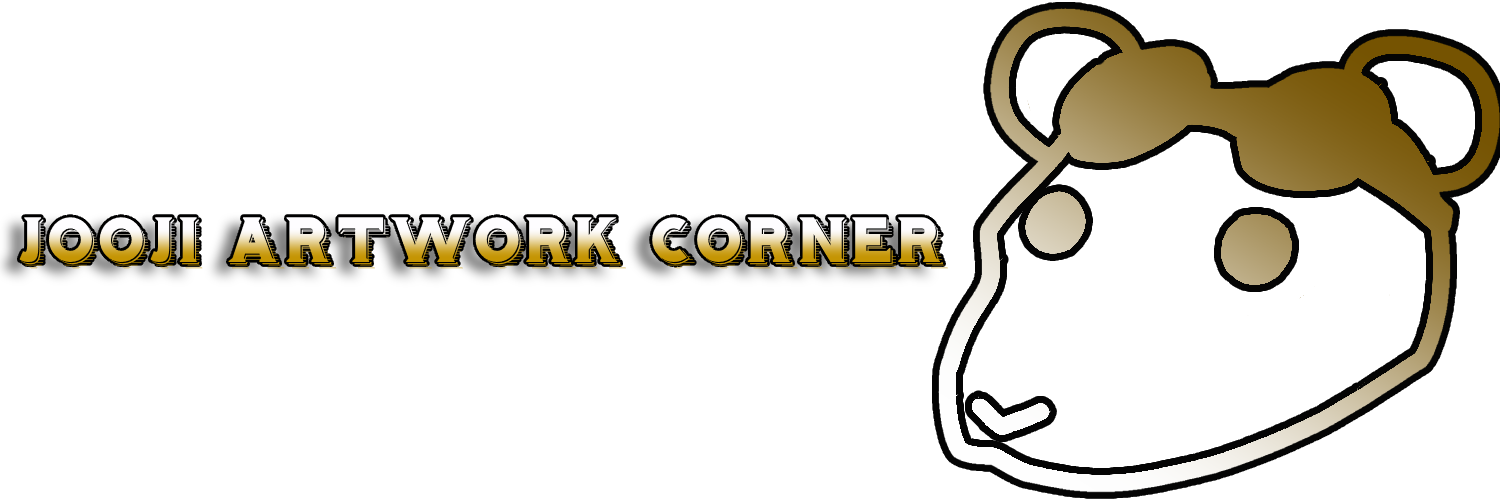
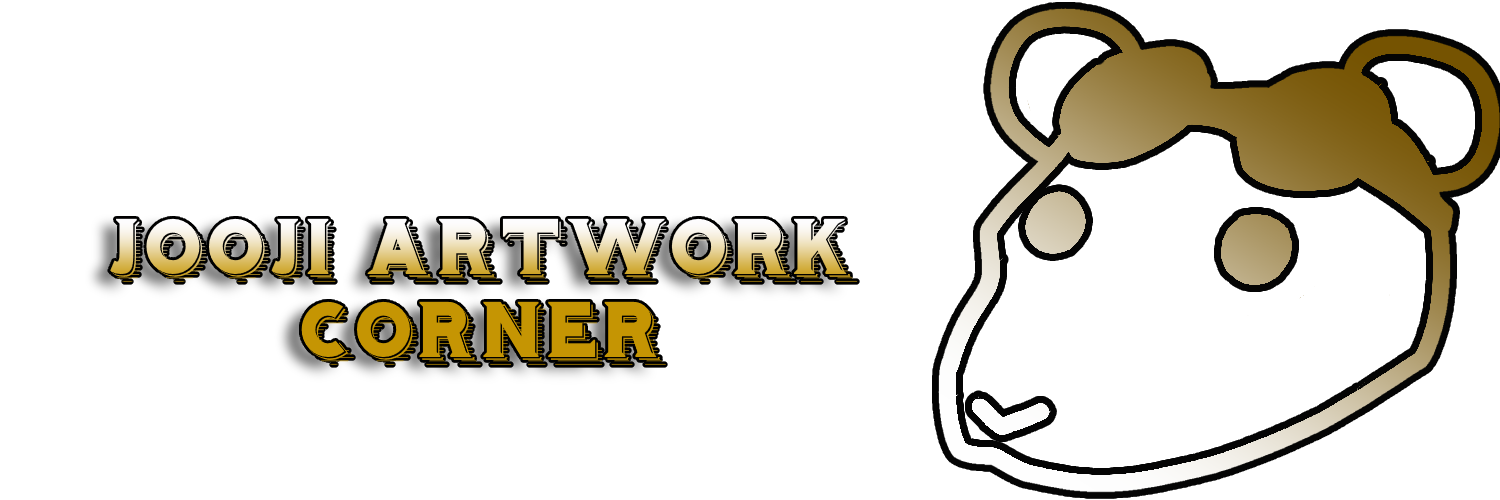
updating

Changed region(s): [[0.0, 0.42, 0.644, 0.75]]

diff --git a/index.html b/index.html
@@ -2,13 +2,18 @@
 <div class="container" style="text-align: center">
   <div class="splash">
     <a href ="secondPage.html">
-    <img src = "Images/TitleThing.png" alt="TitleThing" style="width: 750; height: 250;"></a>/>
+    <img src = "Images/TitleThing.png" alt="TitleThing" style="width: 750; height: 250;"></a>
     <style>
       body{
         background-image: url("Images/background1.png");
         background-repeat: repeat;
       }
     </style>
+
+ <div class"GoToMusicArtwork">
+  <a href = "secondPage.html">
+    <img src = "Images/goToArtworkTab.png" alt="ArtworkTab" style="width: 250; height: 150;"/> </a>
+</div>
 
   <div class"OldTimesSake-Section">
     <p><img src = "Images/OldTimesSake.png" alt="oldTimesSake" style="width: 670; height: 100;"/> </p>

diff --git a/secondPage.html b/secondPage.html
@@ -1,7 +1,6 @@
 <div class="container" style="text-align: center">
   <div class="splash">
-    <a href ="index.html">
-    <img src = "Images\artworkTitle.png" alt="TitleThing" style="width: 750; height: 250;"></a>/>
+    <p><img src = "Images/ArtworkTitle.png" alt="TitleThing" style="width: 750; height: 250;"></p>
     <style>
       body{
         background-image: url("Images/background1.png");
@@ -9,7 +8,8 @@
       }
     </style>
   <div class"GoToMusicTab">
-    <p><img src = "Images/MusicTab.png" alt="MusicTab" style="width: 250; height: 150;"/> </p>
+    <a href = "index.html">
+      <img src = "Images/goToMusicImage.png" alt="MusicTab" style="width: 250; height: 150;"/> </a>
   </div>
     </div>
 </div>
